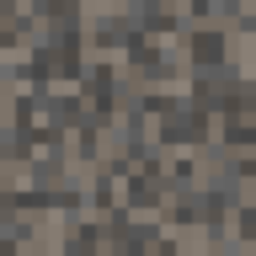
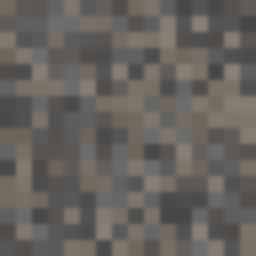
new script

diff --git a/Pillow_procedural_metal2/i.py b/Pillow_procedural_metal2/i.py
@@ -1,0 +1,81 @@
+from PIL import Image, ImageFilter, ImageOps, ImageChops
+import random
+import math
+
+def generate_brushed_noise(width, height, noise_intensity=30):
+    """Genera rumore tipo brushed metal."""
+    img = Image.new("L", (width, height))
+    px = img.load()
+
+    for y in range(height):
+        base = random.randint(110 - noise_intensity, 145 + noise_intensity)
+        for x in range(width):
+            px[x, y] = base + random.randint(-5, 5)
+
+    # Leggero motion blur orizzontale
+    img = img.filter(ImageFilter.GaussianBlur(radius=1))
+    img = img.filter(ImageFilter.BoxBlur(2))
+    return img
+
+
+def add_radial_highlight(img, strength=0.6):
+    """Aggiunge un riflesso centrale radiale (look metallico realistico)."""
+    width, height = img.size
+    center = (width / 2, height / 2)
+
+    highlight = Image.new("L", (width, height))
+    px = highlight.load()
+
+    for y in range(height):
+        for x in range(width):
+            d = math.dist((x, y), center)
+            max_d = math.dist((0, 0), center)
+            v = max(0, 255 - int((d / max_d) * 255 * (1 - strength)))
+            px[x, y] = v
+
+    return ImageChops.screen(img, highlight)
+
+
+def apply_color(img, color=(200, 200, 200)):
+    """Colora la texture (RGB) preservando la luminanza."""
+    return ImageOps.colorize(img, black=(0, 0, 0), white=color)
+
+
+def make_tileable(img):
+    """Rende l'immagine seamless."""
+    w, h = img.size
+
+    # Shift per evitare bordi visibili
+    img = ImageChops.offset(img, w//2, h//2)
+    img = img.filter(ImageFilter.GaussianBlur(radius=2))
+    img = ImageChops.offset(img, -w//2, -h//2)
+    return img
+
+
+def generate_metal_texture(
+        width=1024,
+        height=1024,
+        color=(180, 180, 190),   # acciaio
+        noise_intensity=10,
+        highlight_strength=0.6
+    ):
+
+    img = generate_brushed_noise(width, height, noise_intensity)
+    img = make_tileable(img)
+    img = add_radial_highlight(img, strength=highlight_strength)
+    img = apply_color(img, color)
+    return img
+
+
+if __name__ == "__main__":
+    texture = generate_metal_texture(
+        1024, 1024,
+        #color=(255, 220, 120),    # prova: oro
+        color=(180, 180, 190),     # acciaio inox
+        #color=(200, 200, 200),   # acciaio
+        noise_intensity=50,
+        highlight_strength=0.7
+    )
+
+    texture.save("metal_texture_realistic_tileable.png")
+    texture.show()

diff --git a/Pillow_procedural_metal1/metal_texture.py b/Pillow_procedural_metal1/metal_texture.py
@@ -1,0 +1,25 @@
+from PIL import Image, ImageFilter
+import random
+
+def generate_metal_texture(width=800, height=600, intensity=50):
+    # Crea immagine in scala di grigi con rumore
+    img = Image.new("L", (width, height))
+    pixels = img.load()
+
+    # Rumore orizzontale tipo "brushed"
+    for y in range(height):
+        line_noise = random.randint(100 - intensity, 155 + intensity)
+        for x in range(width):
+            # Aggiunge variazioni minime tra i pixel per simulare l'effetto spazzolato
+            pixels[x, y] = line_noise + random.randint(-8, 8)
+
+    # Applica un motion blur orizzontale
+    img = img.filter(ImageFilter.GaussianBlur(radius=1))
+    img = img.filter(ImageFilter.BoxBlur(3))
+
+    return img
+
+if __name__ == "__main__":
+    texture = generate_metal_texture(1024, 1024, intensity=60)
+    texture.save("metal_texture.png")
+    texture.show()
